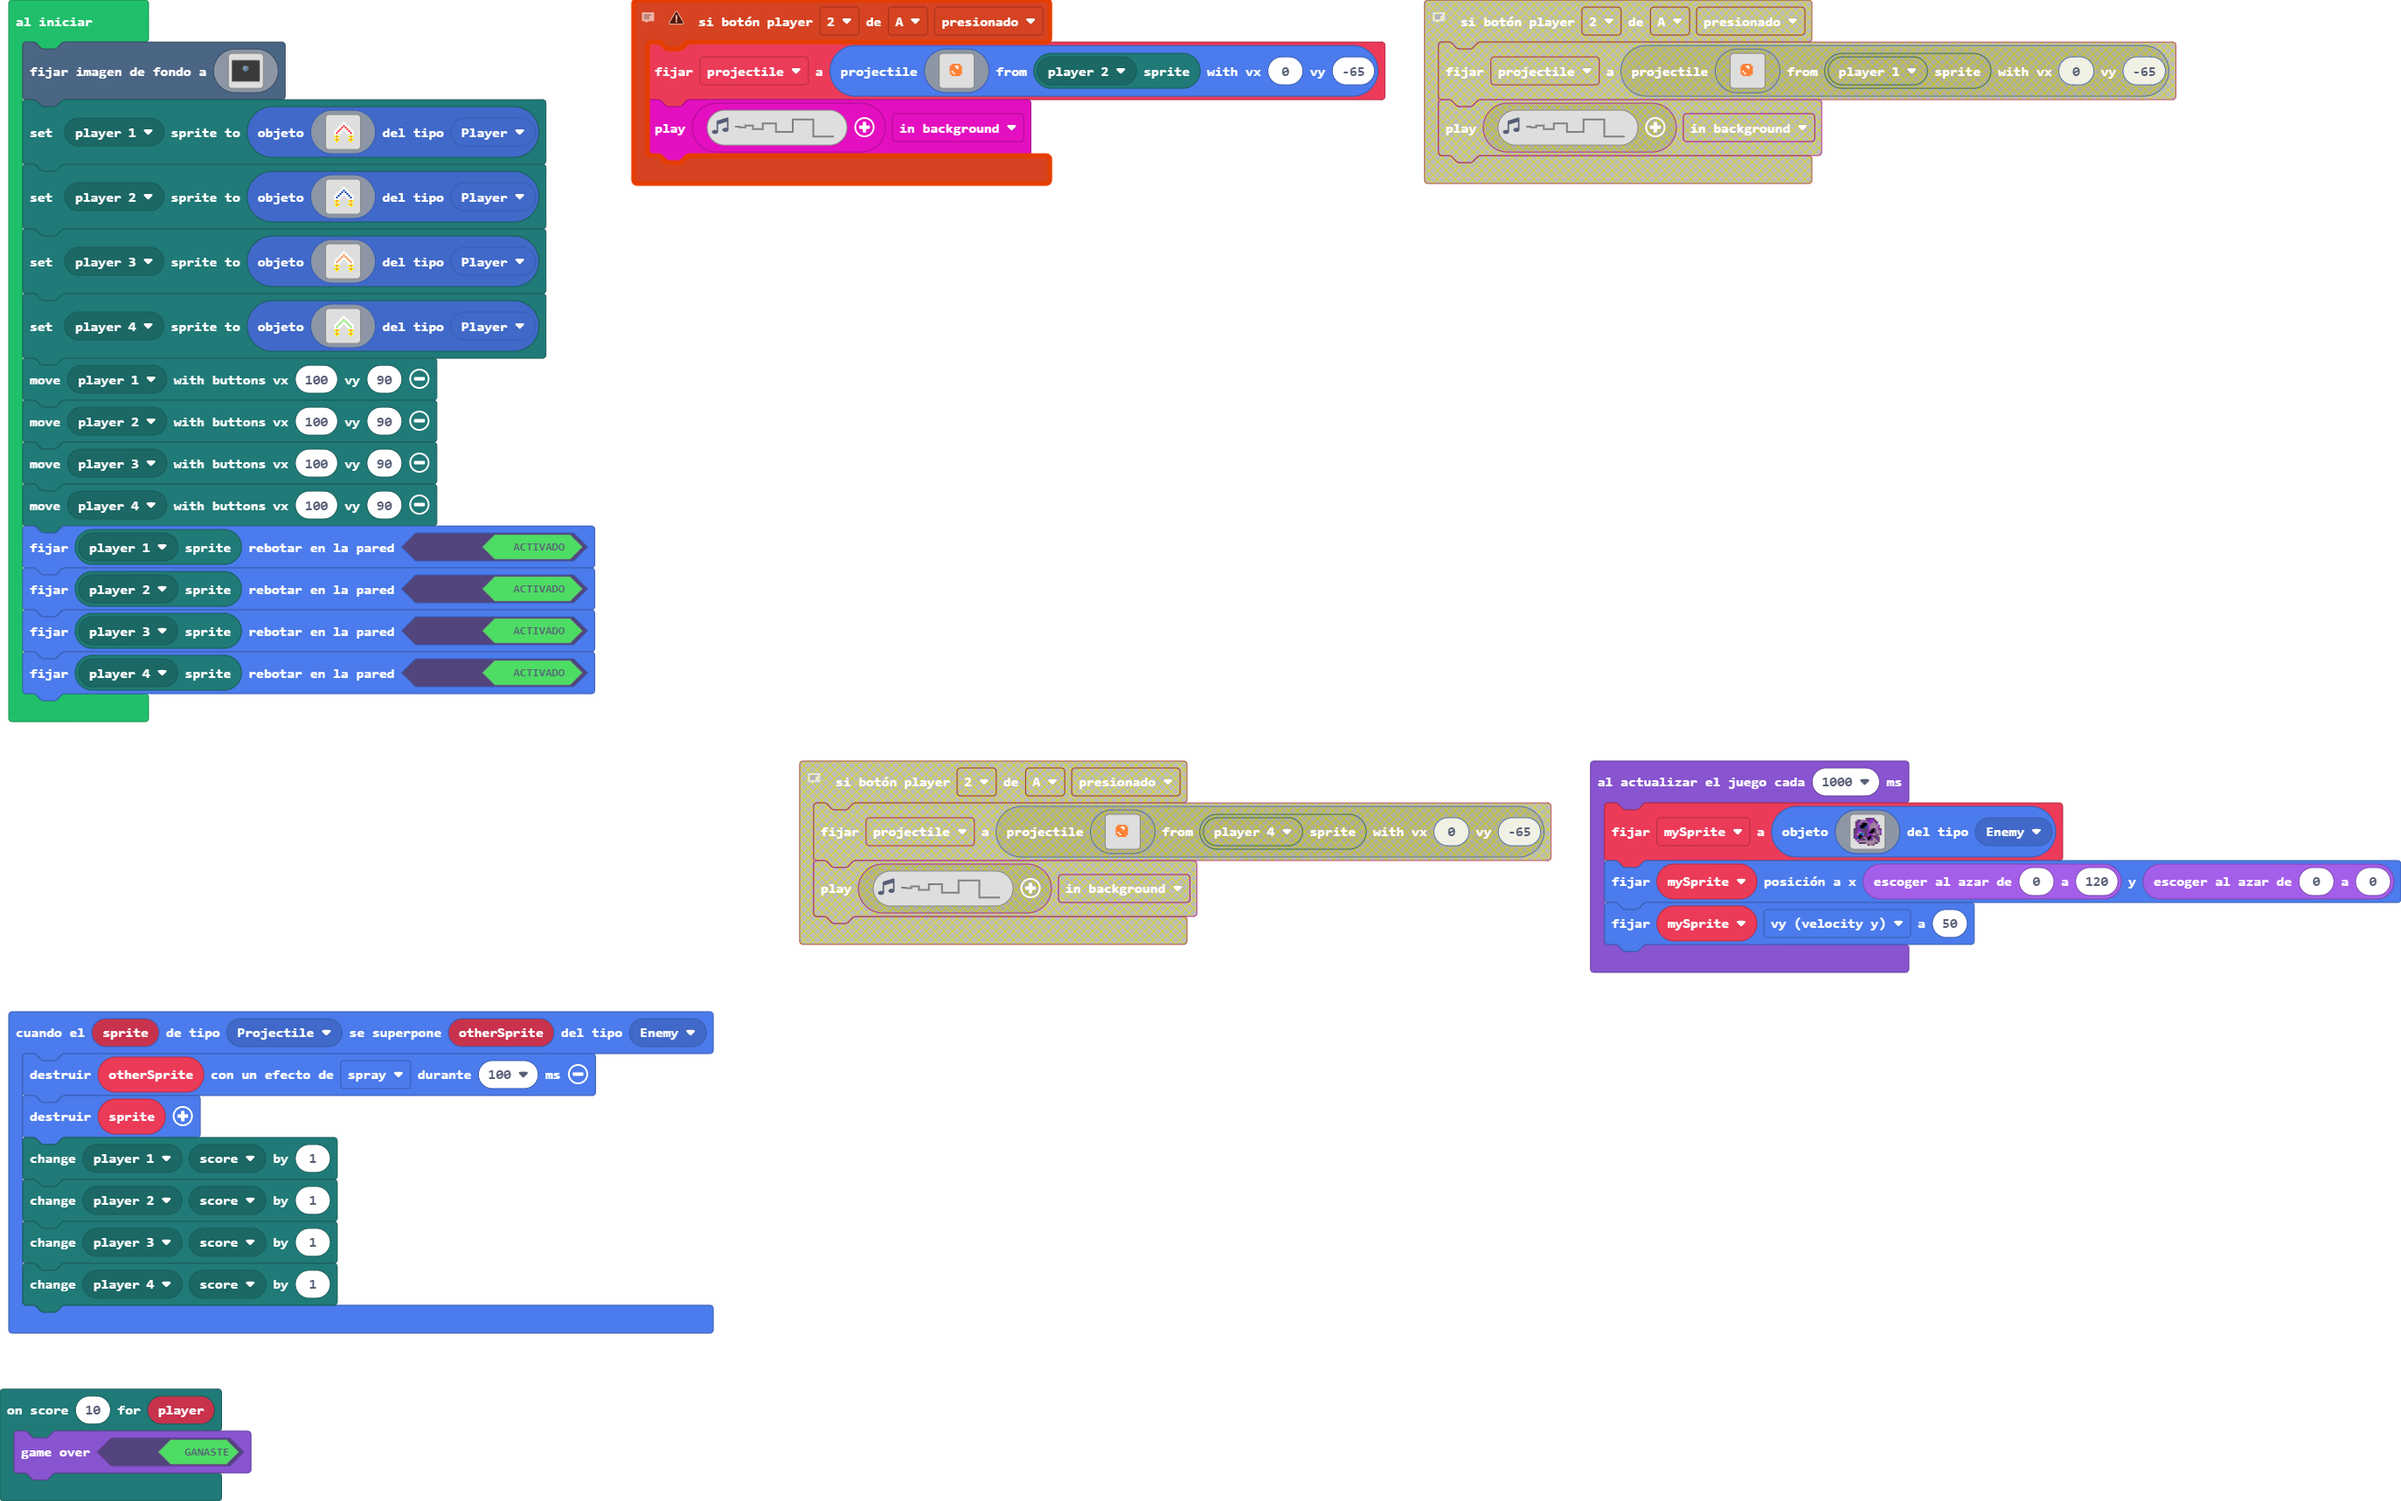
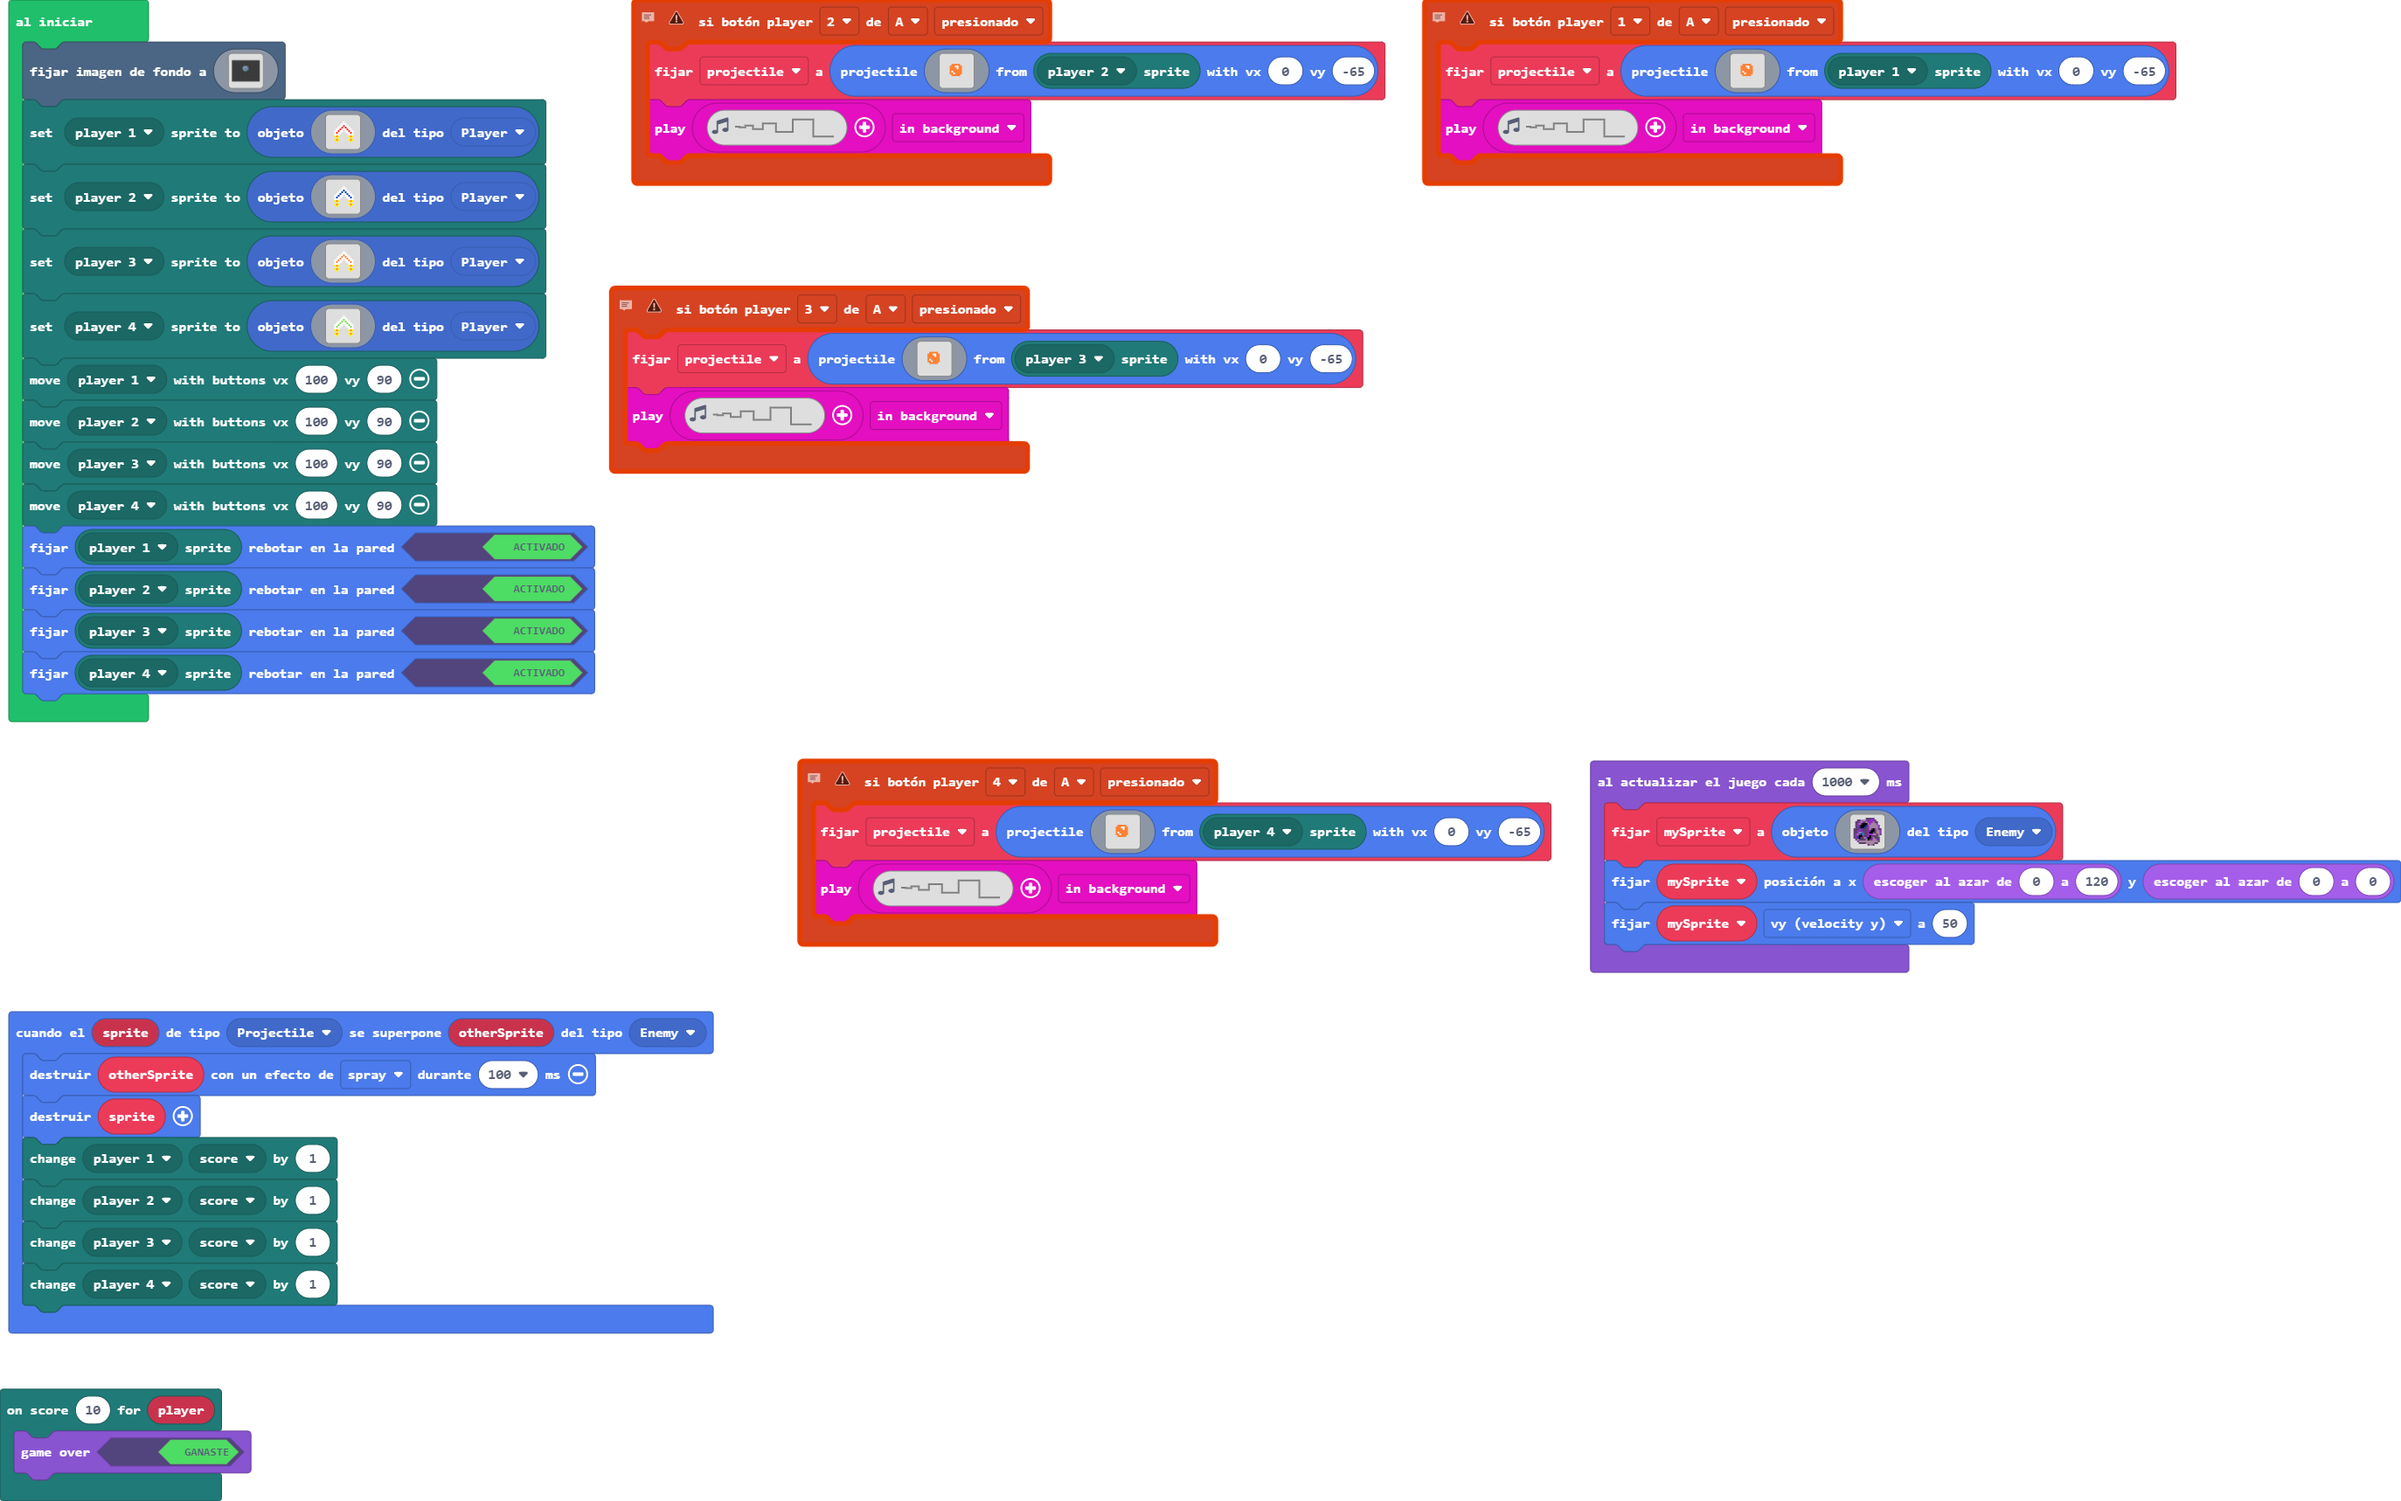
Actualizar pxt.json, main.blocks, main.ts

Changed region(s): [[0.3094, 0.4936, 0.6498, 0.6478], [0.2475, 0.1851, 0.5879, 0.3393], [0.5879, 0.0, 0.9283, 0.1234]]

diff --git a/main.ts b/main.ts
@@ -1,3 +1,25 @@
+// DISPARO PLAYER 4
+controller.player4.onButtonEvent(controller.player4, ControllerButtonEvent.Pressed, function () {
+    projectile = sprites.createProjectileFromSprite(img`
+        . . . . . . . . . . . . . . . . 
+        . . . . . . . . . . . . . . . . 
+        . . . . . . . . . . . . . . . . 
+        . . . . . . . . . . . . . . . . 
+        . . . . . 4 4 4 4 4 . . . . . . 
+        . . . . 4 4 4 1 1 4 4 . . . . . 
+        . . . . 4 4 4 4 1 4 4 . . . . . 
+        . . . . 4 4 4 4 4 4 4 . . . . . 
+        . . . . 4 1 4 4 4 4 4 . . . . . 
+        . . . . 4 4 1 4 4 4 4 . . . . . 
+        . . . . . 4 4 4 4 4 . . . . . . 
+        . . . . . . . . . . . . . . . . 
+        . . . . . . . . . . . . . . . . 
+        . . . . . . . . . . . . . . . . 
+        . . . . . . . . . . . . . . . . 
+        . . . . . . . . . . . . . . . . 
+        `, mp.getPlayerSprite(mp.playerSelector(mp.PlayerNumber.Four)), 0, -65)
+    music.play(music.createSoundEffect(WaveShape.Square, 5000, 85, 0, 255, 300, SoundExpressionEffect.None, InterpolationCurve.Curve), music.PlaybackMode.InBackground)
+})
 // DISPARO PLAYER 2
 ControllerButton.A.onButtonEvent(controller.player2, ControllerButtonEvent.Pressed, function () {
     projectile = sprites.createProjectileFromSprite(img`
@@ -22,6 +44,50 @@ ControllerButton.A.onButtonEvent(controller.player2, ControllerButtonEvent.Press
 })
 mp.onScore(10, function (player2) {
     game.gameOver(true)
+})
+// DISPARO PLAYER 1
+controller.player1.onButtonEvent(controller.player1, ControllerButtonEvent.Pressed, function () {
+    projectile = sprites.createProjectileFromSprite(img`
+        . . . . . . . . . . . . . . . . 
+        . . . . . . . . . . . . . . . . 
+        . . . . . . . . . . . . . . . . 
+        . . . . . . . . . . . . . . . . 
+        . . . . . 4 4 4 4 4 . . . . . . 
+        . . . . 4 4 4 1 1 4 4 . . . . . 
+        . . . . 4 4 4 4 1 4 4 . . . . . 
+        . . . . 4 4 4 4 4 4 4 . . . . . 
+        . . . . 4 1 4 4 4 4 4 . . . . . 
+        . . . . 4 4 1 4 4 4 4 . . . . . 
+        . . . . . 4 4 4 4 4 . . . . . . 
+        . . . . . . . . . . . . . . . . 
+        . . . . . . . . . . . . . . . . 
+        . . . . . . . . . . . . . . . . 
+        . . . . . . . . . . . . . . . . 
+        . . . . . . . . . . . . . . . . 
+        `, mp.getPlayerSprite(mp.playerSelector(mp.PlayerNumber.One)), 0, -65)
+    music.play(music.createSoundEffect(WaveShape.Square, 5000, 85, 0, 255, 300, SoundExpressionEffect.None, InterpolationCurve.Curve), music.PlaybackMode.InBackground)
+})
+// DISPARO PLAYER 2
+controller.player3.onButtonEvent(controller.player2, ControllerButtonEvent.Pressed, function () {
+    projectile = sprites.createProjectileFromSprite(img`
+        . . . . . . . . . . . . . . . . 
+        . . . . . . . . . . . . . . . . 
+        . . . . . . . . . . . . . . . . 
+        . . . . . . . . . . . . . . . . 
+        . . . . . 4 4 4 4 4 . . . . . . 
+        . . . . 4 4 4 1 1 4 4 . . . . . 
+        . . . . 4 4 4 4 1 4 4 . . . . . 
+        . . . . 4 4 4 4 4 4 4 . . . . . 
+        . . . . 4 1 4 4 4 4 4 . . . . . 
+        . . . . 4 4 1 4 4 4 4 . . . . . 
+        . . . . . 4 4 4 4 4 . . . . . . 
+        . . . . . . . . . . . . . . . . 
+        . . . . . . . . . . . . . . . . 
+        . . . . . . . . . . . . . . . . 
+        . . . . . . . . . . . . . . . . 
+        . . . . . . . . . . . . . . . . 
+        `, mp.getPlayerSprite(mp.playerSelector(mp.PlayerNumber.Three)), 0, -65)
+    music.play(music.createSoundEffect(WaveShape.Square, 5000, 85, 0, 255, 300, SoundExpressionEffect.None, InterpolationCurve.Curve), music.PlaybackMode.InBackground)
 })
 sprites.onOverlap(SpriteKind.Projectile, SpriteKind.Enemy, function (sprite, otherSprite) {
     otherSprite.destroy(effects.spray, 100)
